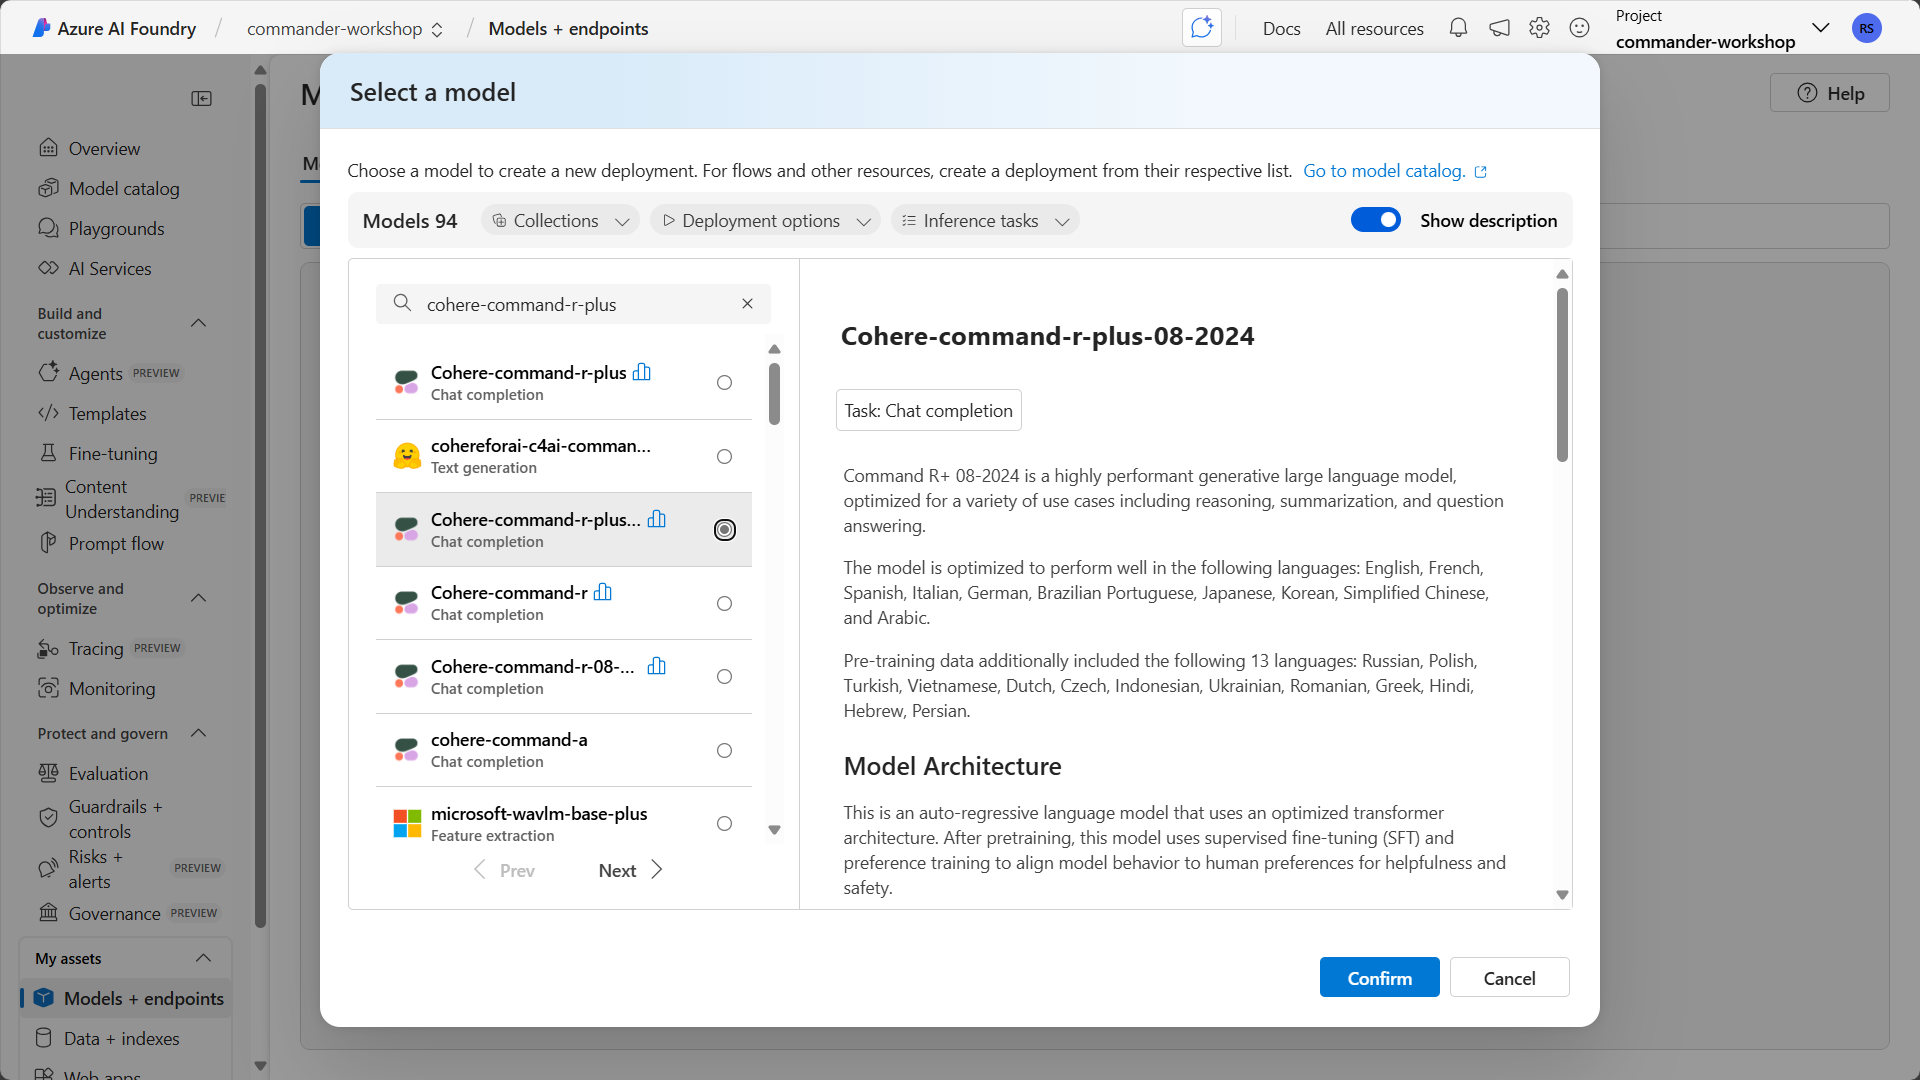
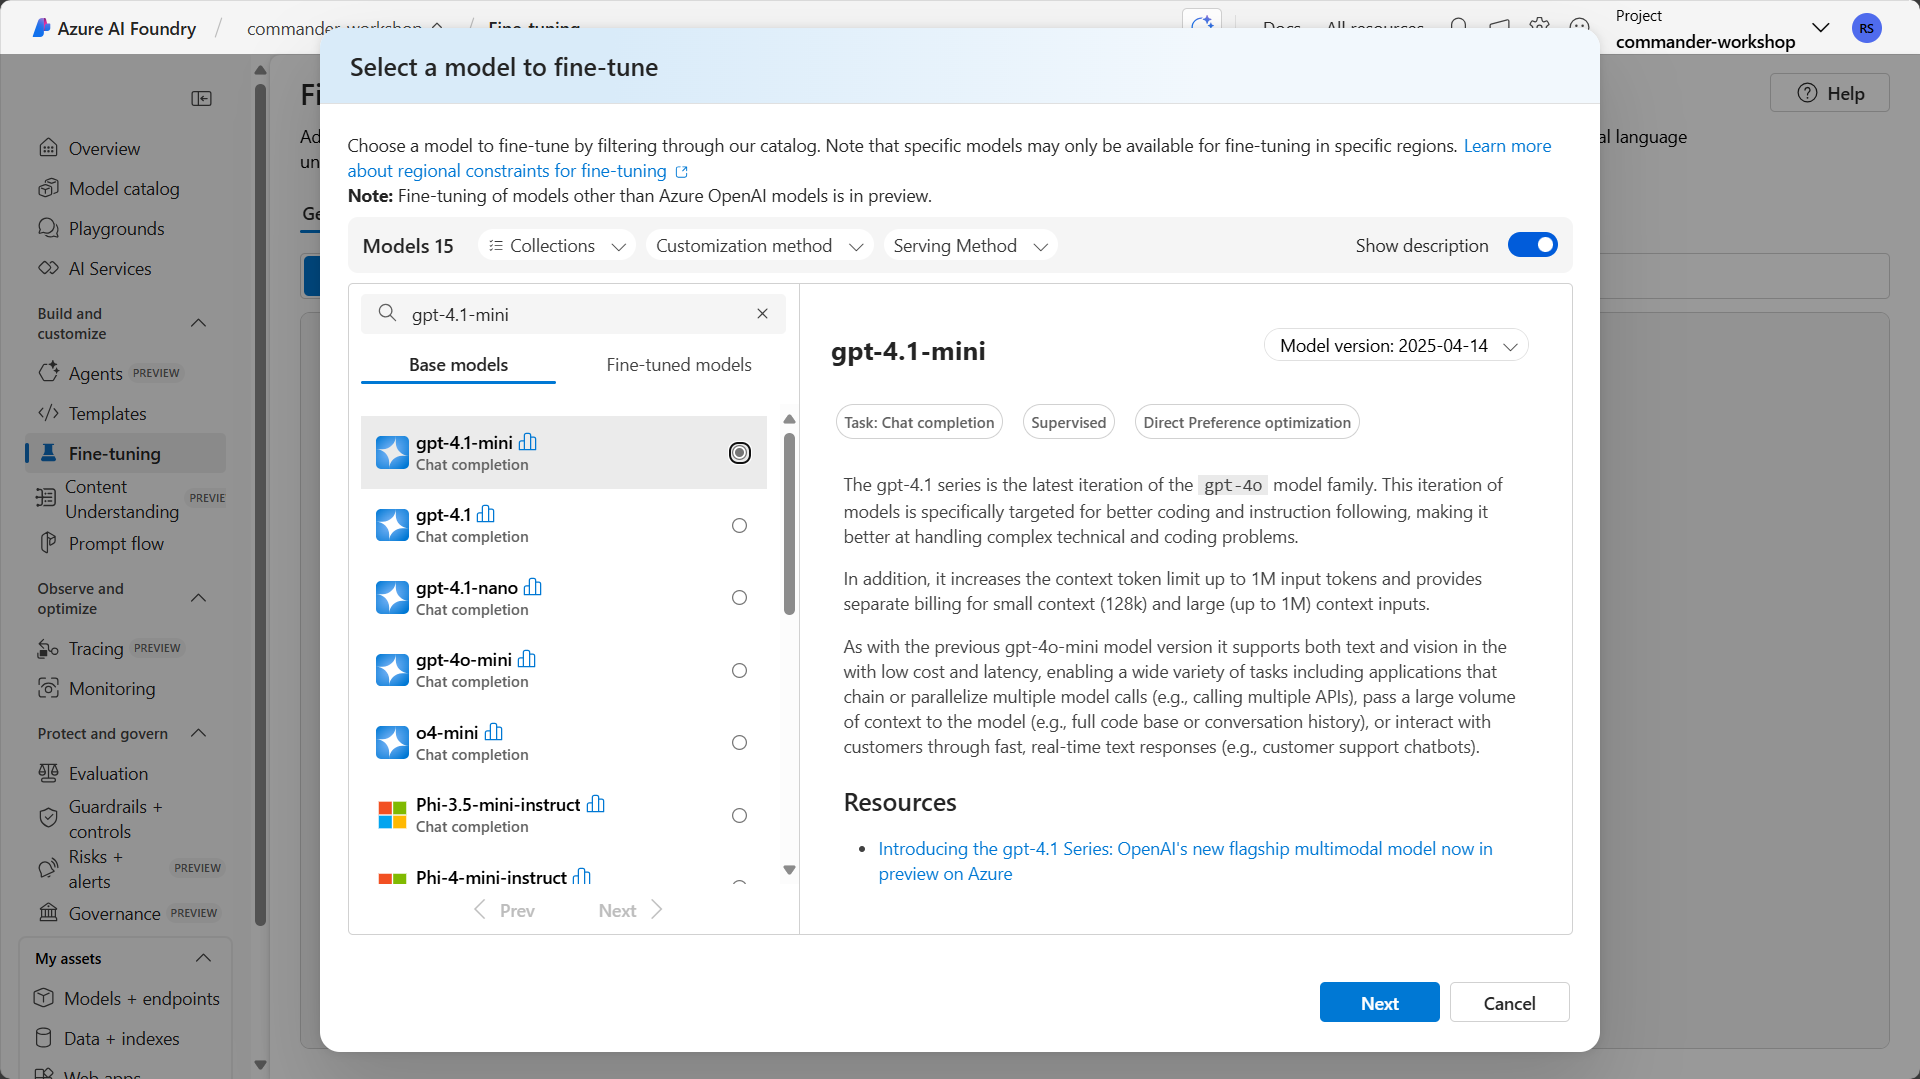
Fine-tuned models

diff --git a/docs/commander/07-extend-with-azure-ai/README.md b/docs/commander/07-extend-with-azure-ai/README.md
@@ -397,20 +397,49 @@ In this lab, you'll put BYOM into practice by deploying a fine-tuned model that 
 
 ### 7.2.2 Deploy a model
 
-1. In the left-hand navigation, select **Models + endpoints**.
+1. In the left-hand navigation, select **Fine-tuning**.
 
-1. Select **Deploy model**, then select **Deploy base model**.
+1. Select **+ Fine-tune model**. Search for `gpt-4.1-mini`.
 
-    ![Deploy base model](./assets/7-deploy-base-model.png)
-
-1. Search for `gpt-4.1-mini`.
-
-    Select the `gpt-4.1-mini` model and select **Confirm**.
+    Select the `gpt-4.1-mini` model and select **Next**.
     ![Search model catalog](./assets/7-search-model-catalog.png)
 
-1. Enter `gpt-4.1-mini-tuned` in **Deployment name**.
+1. You get a confirmation that a new Azure OpenAI resource will be created. 
 
-    Select **Deploy**.
+    Select **Confirm**.
+
+1. Now enter the details for your fine-tuned model:
+
+    - **Connected AI resource**: This defaults to the OpenAI resource that was created for you
+    - **Method**: Select `Supervised`
+    - **Base model**: Select the `gpt-4.1-mini` model
+    - **Training type**: Select `Standard`
+    - **Automatically deploy when fine-tuning is complete**: Select `Yes`
+    - **Deployment type**: Select Developer
+
+    ![Create fine-tuned model](./assets/7-create-fine-tuned-model.png)
+
+1. Now it's time to add your training data.
+
+    Select **+ Add training data**
+
+    In the **Training data** dropdown, select **Upload files**
+
+    Select **Upload file**
+
+    Navigate to the folder containing the `hr_policy_training_data.jsonl` file. Select it and select **Open**.
+
+    Select **Apply**
+
+    ![Fine tune the model](./assets/7-fine-tune-the-model.png)
+
+1. With your fine-tuned model details entered and your training data added, you're ready to create the model.
+
+    Select **Submit**.
+
+    ![Create the fine-tuned model](./assets/7-create-fine-tuned-model.png)
+
+1. AI Foundry will queue the fine-tuning job, and it will take some time to fine-tune the model. When the process is complete, the status will change from **Queued** to **Ready**.
 
 1. AI Foundry displays the details of your model deployment. Note the following information from the model deployment, as you'll need it later:
 
